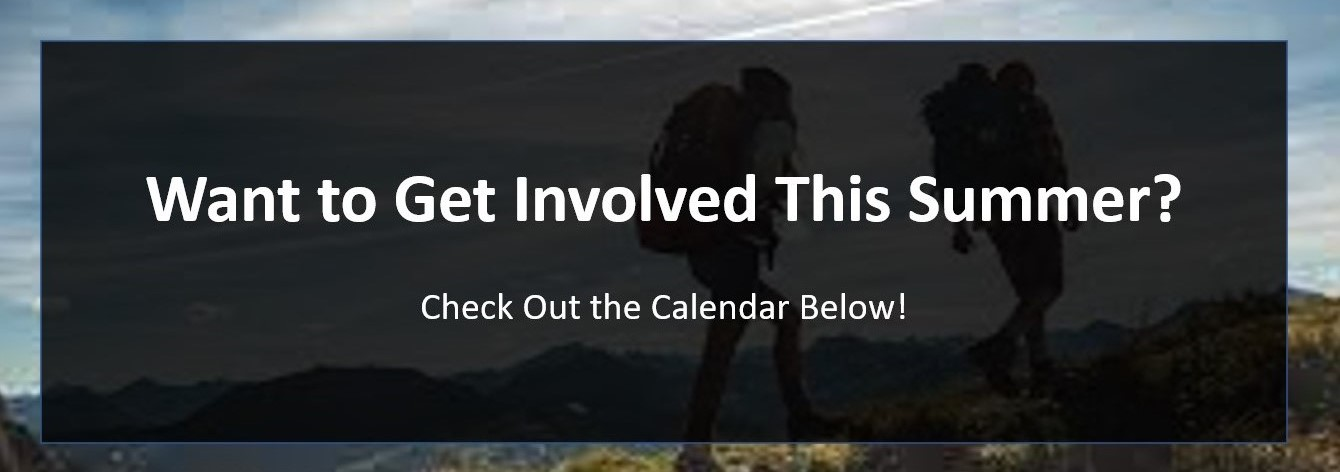
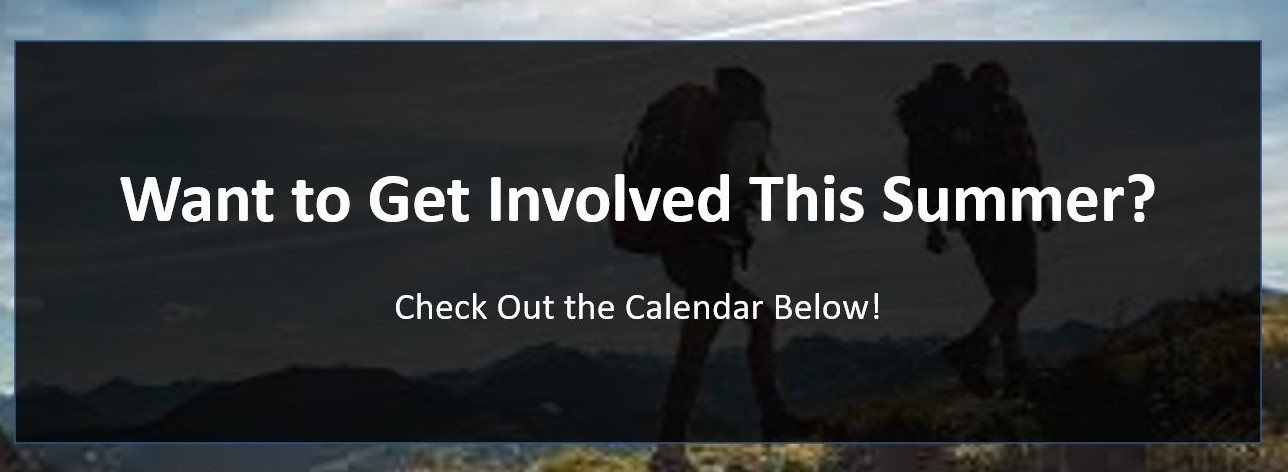
change the slide heights for the carousel

diff --git a/index.html b/index.html
@@ -157,11 +157,11 @@
                     <div class="carousel-inner">
                         <!-- First image. -->
                         <div class="carousel-item active">
-                            <img src="imgs/news-slide-summer-meetings.jpg" class="d-block h-100" alt="...">
+                            <img src="imgs/news-slide-summer-meetings.jpg" class="d-block w-100" alt="...">
                         </div>
                         <div class="carousel-item">
                             <a href="leadership.html">
-                                <img src="imgs/news-slide-image-resized.png" class="d-block h-100" alt="...">
+                                <img src="imgs/news-slide-image-resized.png" class="d-block w-100" alt="...">
                             </a>
                         </div>
 
